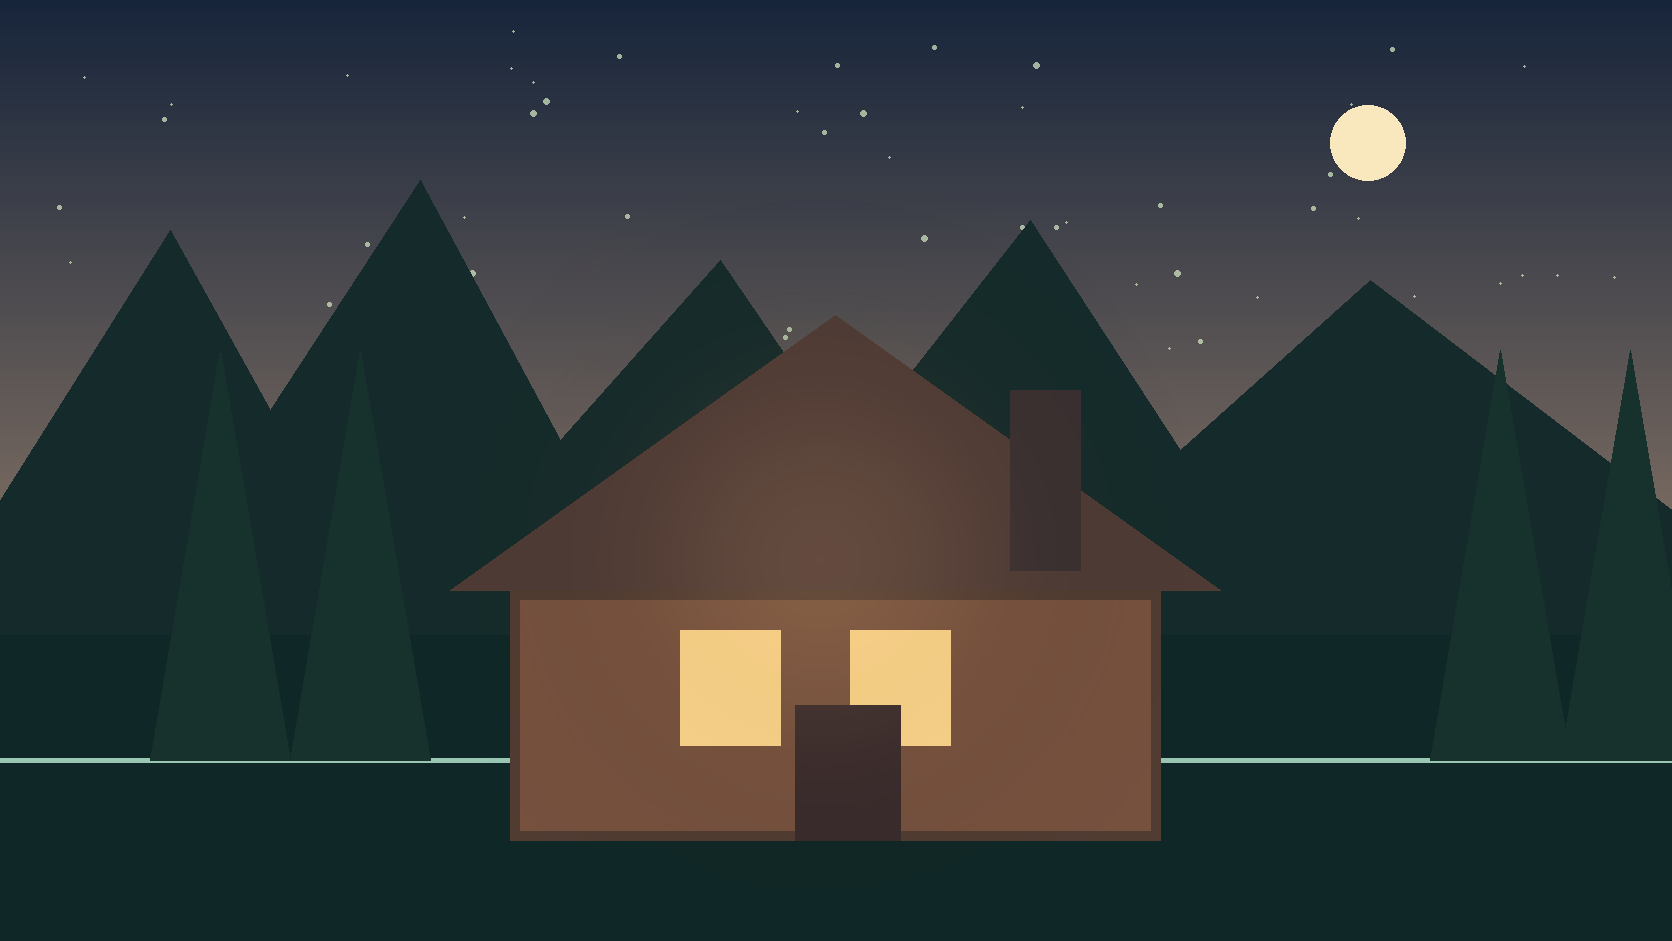
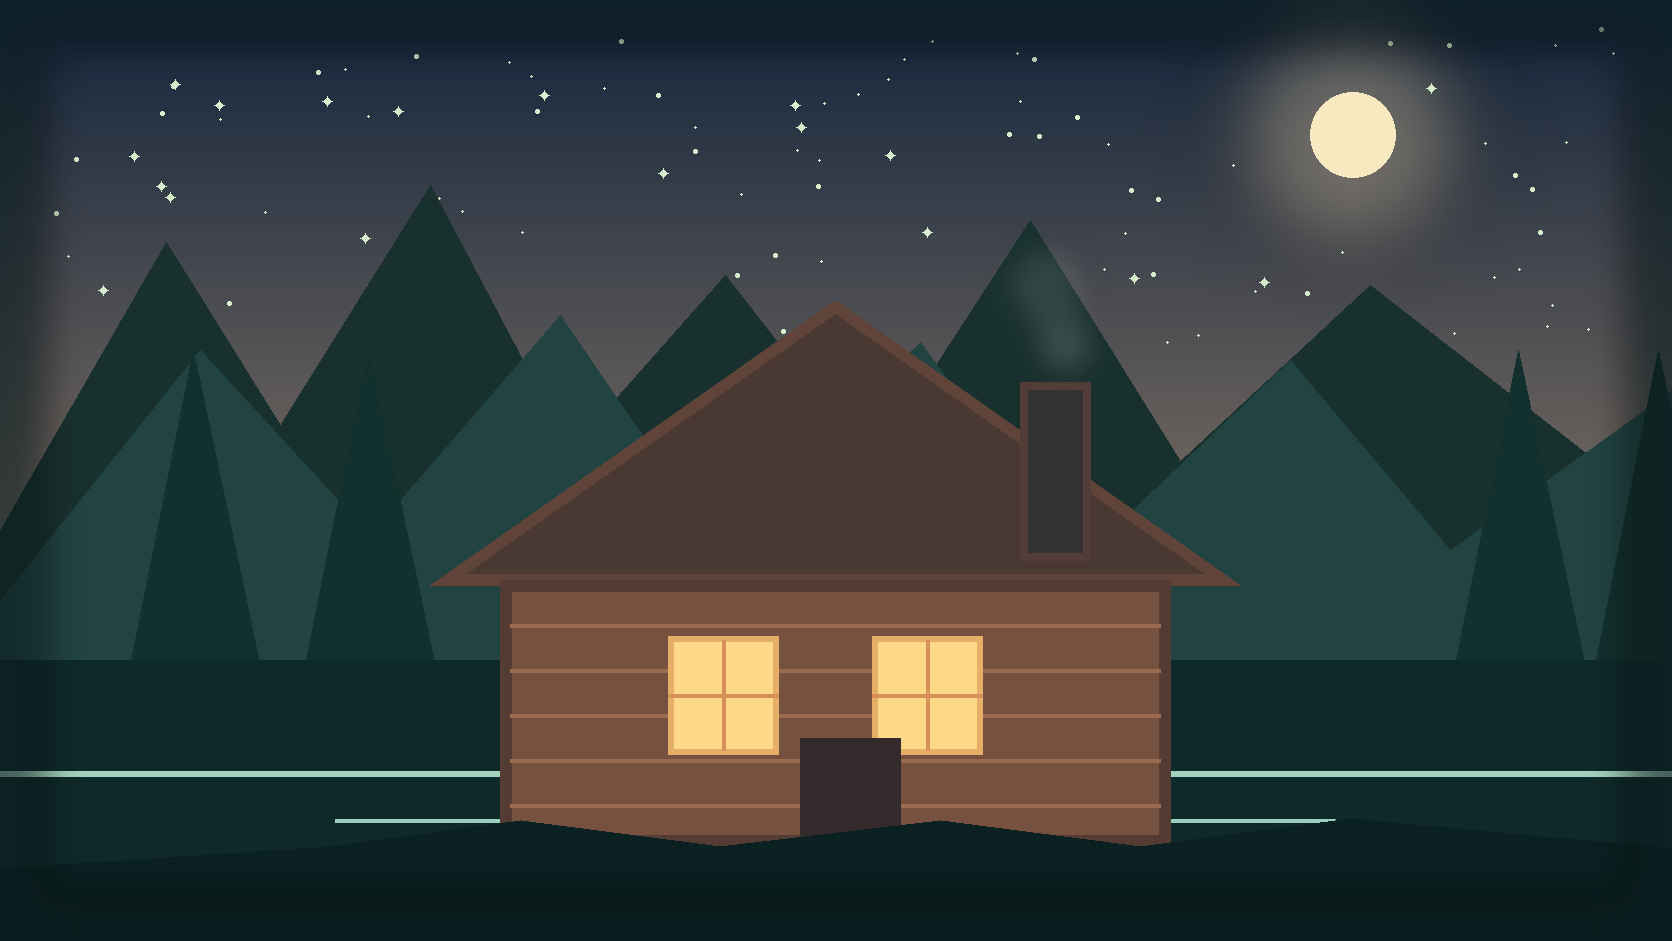
Refine authored world artwork

diff --git a/tools/rasterize_new_worlds.py b/tools/rasterize_new_worlds.py
@@ -1,7 +1,8 @@
 """Create deterministic 1672x941 scene plates for the five authored worlds.
 
-The runtime uses these raster plates for fast backgrounds; the matching SVGs
-remain the source artwork for crisp theme tiles and future scaling.
+The plates are deliberately illustrated rather than icon-like: each scene has
+atmospheric gradients, a clear focal subject, depth layers, light falloff and
+small hand-authored details. Matching SVGs remain the scalable source artwork.
 """
 from pathlib import Path
 from PIL import Image, ImageDraw, ImageFilter
@@ -15,69 +16,105 @@ def gradient(top, bottom):
     im = Image.new("RGB", (W, H)); p = im.load()
     a = tuple(int(top[i:i+2], 16) for i in (1,3,5)); b = tuple(int(bottom[i:i+2], 16) for i in (1,3,5))
     for y in range(H):
-        t = y/(H-1)
-        c = tuple(int(a[i]*(1-t)+b[i]*t) for i in range(3))
+        t = y/(H-1); c = tuple(int(a[i]*(1-t)+b[i]*t) for i in range(3))
         for x in range(W): p[x,y] = c
-    return im
+    return im.convert("RGBA")
 
 def haze(im, xy, r, color, alpha=110):
     layer = Image.new("RGBA", im.size); d=ImageDraw.Draw(layer)
-    d.ellipse((xy[0]-r,xy[1]-r,xy[0]+r,xy[1]+r), fill=color+(alpha,))
-    layer=layer.filter(ImageFilter.GaussianBlur(r//2)); im.paste(layer,(0,0),layer)
+    d.ellipse((xy[0]-r,xy[1]-r,xy[0]+r,xy[1]+r), fill=tuple(color)+(alpha,))
+    layer=layer.filter(ImageFilter.GaussianBlur(max(2,r//3))); im.alpha_composite(layer)
 
-def stars(d, seed, color=(255,245,220,190), n=85):
+def stars(d, seed, color=(255,245,220,190), n=100, y_max=430):
     rng=random.Random(seed)
     for _ in range(n):
-        x=rng.randrange(30,W-30); y=rng.randrange(30,390); r=rng.choice((1,1,2,2,3))
+        x=rng.randrange(28,W-28); y=rng.randrange(24,y_max); r=rng.choice((1,1,1,2,2,3))
         d.ellipse((x-r,y-r,x+r,y+r), fill=color)
+        if r==3: d.line((x-5,y,x+5,y), fill=color, width=1); d.line((x,y-5,x,y+5), fill=color, width=1)
+
+def vignette(im, edge=(4,7,20,145)):
+    v=Image.new("RGBA",im.size,(0,0,0,0)); d=ImageDraw.Draw(v)
+    d.rectangle((0,0,W,H),outline=edge,width=44); im.alpha_composite(v.filter(ImageFilter.GaussianBlur(18)))
 
 def castle():
-    im=gradient("#16122f","#d58ca8"); d=ImageDraw.Draw(im,"RGBA"); stars(d,4); d.ellipse((1240,105,1330,195), fill="#fff0cf")
-    d.polygon([(0,575),(180,470),(350,565),(520,470),(700,560),(870,475),(1050,570),(1250,460),(1672,570),(1672,941),(0,941)], fill="#302344")
-    d.polygon([(0,650),(260,535),(510,650),(760,545),(1020,650),(1280,535),(1672,650),(1672,941),(0,941)], fill="#11162d")
-    stone=(233,197,202); edge=(141,101,149); base=Image.new("RGBA",im.size); bd=ImageDraw.Draw(base)
-    for x,h in ((500,300),(790,420),(1080,300)):
-        bd.rectangle((x-105,580-h,x+105,580),fill=stone+(255,),outline=edge+(255,),width=8); bd.polygon([(x-130,580-h),(x,580-h-145),(x+130,580-h)],fill="#6f477d",outline=edge+(255,))
-        bd.rectangle((x-45,580-h+45,x+45,580-h+140),fill="#ffe4a9")
-    bd.rectangle((610,430,1060,580),fill=stone+(255,),outline=edge+(255,),width=8); bd.polygon([(590,430),(835,205),(1080,430)],fill="#7b4b84",outline=edge+(255,)); bd.rectangle((790,470,880,580),fill="#4f365d"); bd.ellipse((810,485,860,535),fill="#ad648d")
-    im.paste(base,(0,0),base); d=ImageDraw.Draw(im,"RGBA"); haze(im,(835,520),240,(239,158,180),30); d.line((0,785,1672,785),fill="#6f6c95",width=8); return im
+    im=gradient("#11152f","#d18aa5"); d=ImageDraw.Draw(im,"RGBA"); stars(d,4,n=150)
+    haze(im,(1280,132),150,(255,220,170),80); d=ImageDraw.Draw(im,"RGBA"); d.ellipse((1235,85,1325,175),fill="#fff1ce")
+    d.polygon([(0,575),(170,463),(332,553),(500,446),(694,558),(875,464),(1056,560),(1264,442),(1672,560),(1672,941),(0,941)],fill="#332448")
+    d.polygon([(0,667),(270,533),(510,658),(744,536),(1010,660),(1280,525),(1672,646),(1672,941),(0,941)],fill="#10162e")
+    d.polygon([(760,941),(855,600),(950,941)],fill="#29304c"); d.line((840,650,860,650),fill="#c6a6bb",width=5)
+    stone=Image.new("RGBA",im.size); sd=ImageDraw.Draw(stone,"RGBA")
+    for x,h,w in ((505,310,210),(835,438,250),(1160,310,210)):
+        sd.rounded_rectangle((x-w//2,586-h,x+w//2,586),radius=8,fill="#e9c7cf",outline="#886397",width=8)
+        sd.polygon([(x-w//2-24,586-h),(x,586-h-142),(x+w//2+24,586-h)],fill="#744782",outline="#996e9c",width=6)
+        sd.rectangle((x-40,586-h+42,x+40,586-h+142),fill="#ffe8b0",outline="#b87893",width=5)
+        sd.line((x,586-h+45,x,586-h+137),fill="#c58a9b",width=3); sd.line((x-38,586-h+92,x+38,586-h+92),fill="#c58a9b",width=3)
+    sd.rectangle((640,434,1032,586),fill="#e5c1cb",outline="#886397",width=8)
+    sd.polygon([(610,434),(836,215),(1062,434)],fill="#744782",outline="#996e9c",width=7)
+    sd.rectangle((794,482,878,586),fill="#4b355b"); sd.ellipse((815,498,857,540),fill="#ca789a",outline="#f5bdc3",width=4)
+    sd.line((730,466,942,466),fill="#f7dfc9",width=4); im.alpha_composite(stone); d=ImageDraw.Draw(im,"RGBA")
+    for x in (492,1162):
+        d.line((x,230,x,350),fill="#c79b8f",width=5); d.polygon([(x,348),(x+48,365),(x,385)],fill="#eeb0ba")
+    for x in range(250,1450,90): d.ellipse((x,735,x+10,745),fill="#e7b9c9")
+    d.polygon([(0,805),(210,728),(420,802),(610,747),(820,810),(1040,742),(1280,807),(1490,730),(1672,788),(1672,941),(0,941)],fill="#171c35")
+    d.line((0,792,1672,792),fill="#77719f",width=6); vignette(im,(20,16,38,150)); return im
 
 def underworld():
-    im=gradient("#100c19","#792c24"); d=ImageDraw.Draw(im,"RGBA"); haze(im,(835,730),300,(255,100,55),95); stars(d,9,(255,207,118,170),35)
-    d.polygon([(0,0),(350,0),(450,260),(335,420),(490,620),(0,700)],fill="#17121d"); d.polygon([(1672,0),(1322,0),(1222,260),(1337,420),(1182,620),(1672,700)],fill="#17121d")
-    d.polygon([(0,690),(170,560),(360,620),(530,545),(690,640),(850,565),(1050,650),(1260,540),(1450,625),(1672,520),(1672,941),(0,941)],fill="#26171f")
-    d.polygon([(0,820),(300,700),(550,830),(820,735),(1100,820),(1370,700),(1672,805),(1672,941),(0,941)],fill="#d75a35"); d.line((0,845,300,790,550,860,820,790,1100,850,1370,770,1672,830),fill="#ffd47a",width=12)
-    for x,h in ((380,420),(520,510),(1150,510),(1290,420)):
-        d.polygon([(x-70,760-h),(x,760-h-95),(x+70,760-h),(x+58,760)],fill="#3b2327",outline="#874538",width=10)
-    d.ellipse((650,325,1022,770),fill="#140f18",outline="#b45b45",width=12); d.arc((700,360,972,740),180,360,fill="#f0a15b",width=9); return im
+    im=gradient("#0b0a16","#7f3024"); d=ImageDraw.Draw(im,"RGBA"); stars(d,9,(255,208,120,190),45,380)
+    haze(im,(836,760),340,(255,91,42),120); haze(im,(836,545),180,(219,78,45),45); d=ImageDraw.Draw(im,"RGBA")
+    d.polygon([(0,0),(350,0),(430,178),(345,340),(470,506),(330,670),(470,941),(0,941)],fill="#17121e")
+    d.polygon([(1672,0),(1322,0),(1242,178),(1327,340),(1202,506),(1342,670),(1202,941),(1672,941)],fill="#17121e")
+    for poly in [[(0,120),(210,0),(310,240),(120,360)],[(1672,120),(1462,0),(1362,240),(1552,360)],[(0,560),(230,390),(380,610),(130,750)],[(1672,560),(1442,390),(1292,610),(1542,750)]]: d.polygon(poly,fill="#251622",outline="#47262d")
+    d.polygon([(0,710),(170,564),(360,625),(530,542),(690,652),(850,565),(1050,657),(1260,540),(1450,632),(1672,520),(1672,941),(0,941)],fill="#2a1821")
+    d.polygon([(0,828),(280,710),(545,842),(820,735),(1100,828),(1380,700),(1672,800),(1672,941),(0,941)],fill="#c4472e")
+    d.line((0,852,280,770,545,875,820,785,1100,856,1380,760,1672,833),fill="#ffd37c",width=18); d.line((0,878,280,803,545,902,820,812,1100,883,1380,790,1672,855),fill="#f06a39",width=8)
+    for x,h in ((380,420),(525,520),(1147,520),(1292,420)):
+        d.polygon([(x-72,760-h),(x,760-h-102),(x+74,760-h),(x+60,760)],fill="#3b242b",outline="#92503f",width=10); d.line((x,760-h+25,x+20,760-h+165),fill="#c26247",width=4)
+    d.ellipse((642,302,1030,780),fill="#120f19",outline="#bd6247",width=14); d.arc((704,345,968,730),180,360,fill="#f4a65b",width=12); d.arc((730,378,942,690),180,360,fill="#ffd27a",width=5)
+    for x,y in ((470,270),(1180,220),(410,490),(1260,460),(610,180),(1030,135)):
+        d.ellipse((x-4,y-4,x+4,y+4),fill="#ffc56d"); d.line((x,y-12,x,y+12),fill="#ff8c4c",width=2)
+    vignette(im,(22,8,24,180)); return im
 
 def mythic():
-    im=gradient("#091229","#13112e"); d=ImageDraw.Draw(im,"RGBA"); haze(im,(835,390),330,(91,228,223),90); stars(d,14,(220,194,255,210),70); c=(835,410)
-    for r in (310,205): d.ellipse((c[0]-r,c[1]-r,c[0]+r,c[1]+r),outline="#9de8e8",width=5)
-    for a in (0,45,90,135):
-        dx=math.cos(math.radians(a))*310; dy=math.sin(math.radians(a))*310; d.line((c[0]-dx,c[1]-dy,c[0]+dx,c[1]+dy),fill="#9de8e8",width=4)
-    d.polygon([(0,700),(320,620),(600,710),(830,620),(1100,710),(1400,600),(1672,700),(1672,941),(0,941)],fill="#101b36")
-    d.polygon([(690,735),(835,430),(980,735)],fill="#17264a",outline="#8ce3e7",width=9); d.polygon([(735,500),(835,395),(935,500)],outline="#d7c2ff",width=10); d.ellipse((790,550,880,640),fill="#8ce3e7",outline="#e7d89b",width=4); return im
+    im=gradient("#071027","#121735"); d=ImageDraw.Draw(im,"RGBA"); stars(d,14,(222,197,255,220),140,500)
+    haze(im,(836,410),330,(97,226,226),110); haze(im,(836,410),160,(204,177,255),65); d=ImageDraw.Draw(im,"RGBA"); c=(836,410)
+    for r,col,w in ((315,"#85e2e4",7),(220,"#9fe9e7",5),(120,"#d2b9ff",4)): d.ellipse((c[0]-r,c[1]-r,c[0]+r,c[1]+r),outline=col,width=w)
+    for a in (0,30,60,90,120,150):
+        dx=math.cos(math.radians(a))*315; dy=math.sin(math.radians(a))*315; d.line((c[0]-dx,c[1]-dy,c[0]+dx,c[1]+dy),fill="#8bdfe2",width=3)
+    for a in range(0,360,45):
+        x=c[0]+315*math.cos(math.radians(a)); y=c[1]+315*math.sin(math.radians(a)); d.ellipse((x-8,y-8,x+8,y+8),fill="#f2d88d")
+    d.polygon([(0,720),(280,604),(510,716),(770,595),(1000,718),(1280,580),(1672,710),(1672,941),(0,941)],fill="#101a37")
+    d.polygon([(610,790),(836,420),(1060,790)],fill="#1a2c54",outline="#86dfe1",width=9); d.polygon([(720,590),(836,430),(952,590)],fill="#18233f",outline="#d9c0ff",width=8); d.polygon([(795,790),(836,515),(877,790)],fill="#112142")
+    d.ellipse((800,580,872,652),fill="#92e2e2",outline="#f0d58a",width=5)
+    for x in (200,250,1420,1470): d.line((x,790,x,590),fill="#6fd0d4",width=5); d.line((x-30,790,x+30,790),fill="#6fd0d4",width=5)
+    vignette(im,(3,10,34,160)); return im
 
 def cabin():
-    im=gradient("#17253b","#c6a17e"); d=ImageDraw.Draw(im,"RGBA"); d.ellipse((1330,105,1405,180),fill="#f9e8bd"); stars(d,21,(213,235,195,180),55)
-    d.polygon([(0,500),(170,230),(270,410),(420,180),(560,440),(720,260),(850,450),(1030,220),(1180,450),(1370,280),(1672,510),(1672,690),(0,690)],fill="#152b2b")
-    d.rectangle((0,635,W,H),fill="#102727"); d.line((0,760,1672,760),fill="#9ac6b4",width=5)
-    d.polygon([(450,590),(835,315),(1220,590)],fill="#4f3b36",outline="#513c32"); d.rectangle((510,590,1160,840),fill="#76513e",outline="#513c32",width=10); d.rectangle((680,630,780,745),fill="#ffd88c"); d.rectangle((850,630,950,745),fill="#ffd88c"); d.rectangle((795,705,900,840),fill="#392b2c"); d.rectangle((1010,390,1080,570),fill="#3a3031")
-    for x in (150,290,1430,1560): d.polygon([(x,760),(x+70,350),(x+140,760)],fill="#17312c")
-    haze(im,(820,560),210,(241,180,119),48); return im
+    im=gradient("#12243c","#c4a27f"); d=ImageDraw.Draw(im,"RGBA"); haze(im,(1350,132),130,(255,225,175),80); d=ImageDraw.Draw(im,"RGBA"); d.ellipse((1310,92,1395,177),fill="#f9e9c0"); stars(d,21,(215,238,204,190),95,350)
+    d.polygon([(0,530),(166,242),(280,425),(430,185),(570,450),(725,275),(872,463),(1030,220),(1180,461),(1370,285),(1672,520),(1672,710),(0,710)],fill="#18312f")
+    d.polygon([(0,600),(200,350),(370,535),(560,315),(720,550),(920,342),(1080,560),(1290,360),(1450,550),(1672,390),(1672,710),(0,710)],fill="#214342")
+    for x in (125,300,1450,1590): d.polygon([(x,690),(x+68,350),(x+140,690)],fill="#12302e")
+    d.rectangle((0,660,W,H),fill="#0e2929"); d.line((0,773,1672,773),fill="#a1d2bc",width=6)
+    for y,wid,a in ((820,500,95),(850,360,80),(885,260,70)): d.line((835-wid,y,835+wid,y),fill=(154,206,188,a),width=4)
+    d.polygon([(430,585),(835,300),(1240,585)],fill="#4a3833",outline="#60443a",width=12); d.rectangle((500,580,1170,846),fill="#76513f",outline="#543b34",width=12)
+    for y in range(625,825,45): d.line((510,y,1160,y),fill="#9a6b4e",width=4)
+    d.rectangle((668,636,778,754),fill="#ffd88a",outline="#e6af68",width=6); d.rectangle((872,636,982,754),fill="#ffd88a",outline="#e6af68",width=6); d.line((723,640,723,750),fill="#d79057",width=4); d.line((668,695,778,695),fill="#d79057",width=4); d.line((927,640,927,750),fill="#d79057",width=4); d.line((872,695,982,695),fill="#d79057",width=4)
+    d.rectangle((800,738,900,846),fill="#342a2c"); d.rectangle((1020,382,1090,560),fill="#343235",outline="#523d38",width=8)
+    smoke=Image.new("RGBA",im.size); sd=ImageDraw.Draw(smoke,"RGBA"); sd.ellipse((1030,310,1100,380),fill=(224,230,211,45)); sd.ellipse((1000,240,1090,330),fill=(224,230,211,30)); im.alpha_composite(smoke.filter(ImageFilter.GaussianBlur(16)))
+    d=ImageDraw.Draw(im,"RGBA"); d.polygon([(330,846),(520,820),(720,846),(940,820),(1140,846),(1350,818),(1672,848),(1672,941),(0,941),(0,868)],fill="#0a2021")
+    vignette(im,(10,28,29,155)); return im
 
 def sunset():
-    im=gradient("#47315f","#f9d59b"); d=ImageDraw.Draw(im,"RGBA"); d.ellipse((750,280,910,440),fill="#ffe2a5"); d.rectangle((0,465,W,H),fill="#1f405b");
-    for y,amp,col,w in ((555,55,"#f9d8ac",8),(650,45,"#f9d8ac",6),(780,30,"#dfb895",4)):
-        pts=[]
-        for x in range(0,W+1,20): pts.append((x,y+amp*math.sin(x/145)))
-        d.line(pts,fill=col,width=w)
-    d.polygon([(0,730),(260,590),(500,730),(760,620),(1010,735),(1350,590),(1672,710),(1672,941),(0,941)],fill="#27364b")
-    for x in (150,1480):
-        d.polygon([(x,800),(x+55,430),(x+110,800)],fill="#2a3044"); d.line((x+55,540,x-20,500),fill="#2a3044",width=16); d.line((x+55,600,x+135,550),fill="#2a3044",width=14)
-    return im
+    im=gradient("#3c2c5b","#f8d69e"); d=ImageDraw.Draw(im,"RGBA"); stars(d,33,(255,238,205,160),35,240); haze(im,(835,334),190,(255,205,143),100); d=ImageDraw.Draw(im,"RGBA"); d.ellipse((760,260,910,410),fill="#ffe2a8")
+    d.polygon([(0,240),(200,210),(360,260),(540,190),(730,240),(910,185),(1120,245),(1320,210),(1672,250),(1672,390),(0,390)],fill=(255,198,174,48)); d.rectangle((0,420,W,H),fill="#21465e")
+    d.polygon([(0,520),(190,470),(400,520),(620,460),(850,515),(1050,468),(1300,522),(1510,470),(1672,510),(1672,941),(0,941)],fill="#2c5770")
+    for y,amp,col,w in ((510,34,"#ffe0ac",9),(590,28,"#f9c99e",7),(680,22,"#dfb38e",5),(770,15,"#a9b7ad",4)):
+        pts=[(x,y+amp*math.sin(x/145)) for x in range(0,W+1,18)]; d.line(pts,fill=col,width=w)
+    d.polygon([(0,735),(250,594),(490,730),(750,620),(1010,735),(1350,590),(1672,710),(1672,941),(0,941)],fill="#263b51"); d.polygon([(0,840),(310,780),(610,842),(920,780),(1250,840),(1500,790),(1672,820),(1672,941),(0,941)],fill="#b97d69")
+    for x,h in ((150,420),(1480,450)):
+        d.polygon([(x,900),(x+58,h),(x+114,900)],fill="#242c44")
+        for y,side in ((590,-1),(650,1),(710,-1)): d.line((x+58,y,x+58+side*100,y-55),fill="#242c44",width=15)
+    d.line((0,910,1672,910),fill="#f0c28f",width=4); vignette(im,(45,31,65,140)); return im
 
 for name, fn in (("castle",castle),("underworld",underworld),("mythic",mythic),("cabin",cabin),("sunset",sunset)):
-    fn().resize((1672,941), Image.Resampling.LANCZOS).save(OUT/f"{name}-1.0.3.png", optimize=True)
+    fn().resize((1672,941), Image.Resampling.LANCZOS).convert("RGB").save(OUT/f"{name}-1.0.3.png", optimize=True)
     print(name)

diff --git a/AUDIT-1.0.3.md b/AUDIT-1.0.3.md
@@ -4,7 +4,7 @@ Status: implemented and packaged for owner review, with the automated verificati
 
 ## Current candidate delta
 
[2 lines of base64/hex data omitted]
 Card Studio also has guarded **Save & next card** and **Save & next slide/page** actions for slide-set authoring. The first saves the current local draft and carries only the source page, destination deck, tags, card style, selected note type, field mapping, and occlusion display preference into a clean draft. The second additionally advances to the next page of a multi-page source. Neither action copies the previous question, masks, media, or source quotation.
 
[1 lines of base64/hex data omitted]
